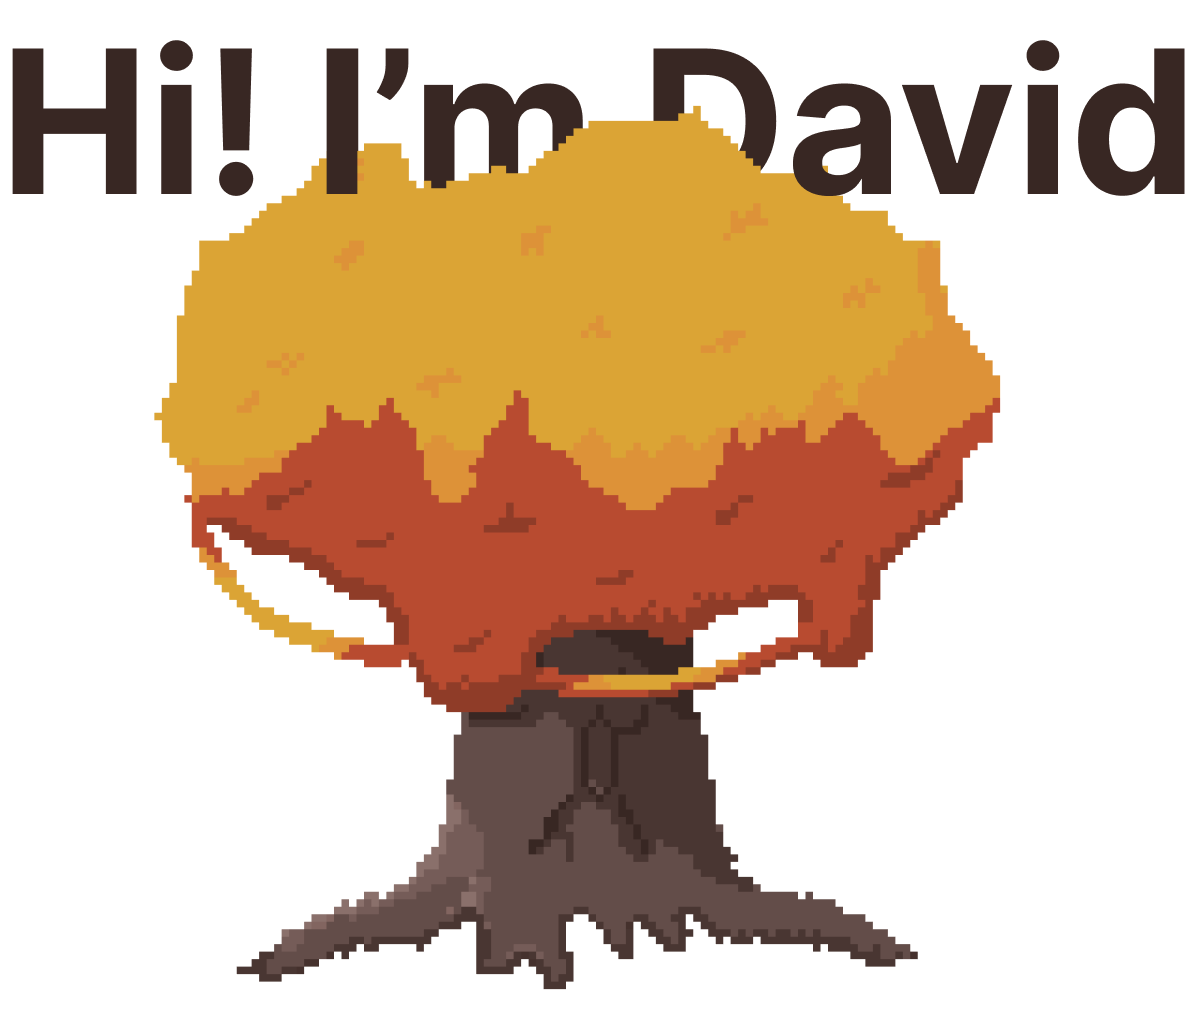
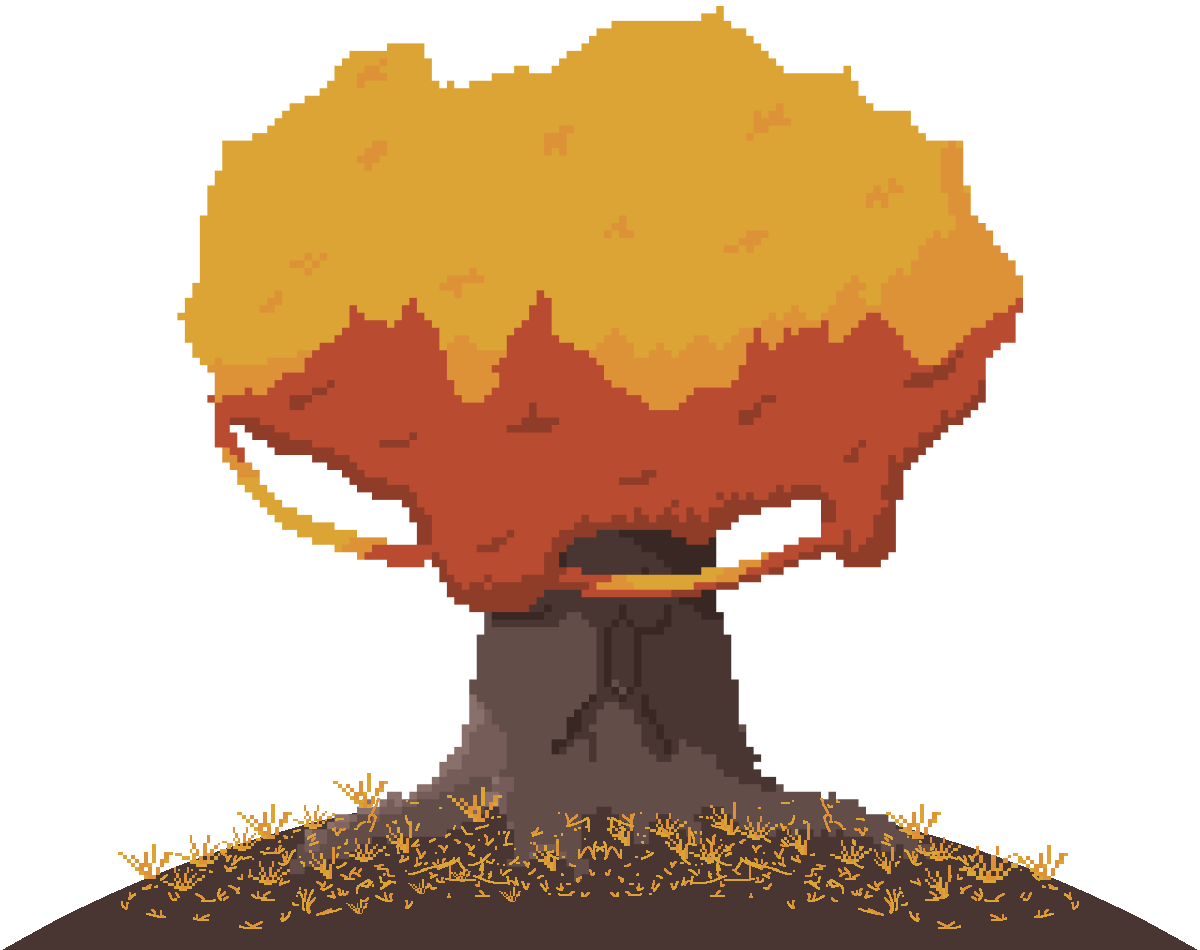
add leave effect and user edit css

diff --git a/index.html b/index.html
@@ -12,6 +12,8 @@
     <link rel="preconnect" href="https://fonts.googleapis.com">
     <link rel="preconnect" href="https://fonts.gstatic.com" crossorigin>
     <link href="https://fonts.googleapis.com/css2?family=Inter:wght@500;700&display=swap" rel="stylesheet">
+    <link href="https://fonts.googleapis.com/css2?family=Press+Start+2P&display=swap" rel="stylesheet">
+    <script defer src="hero.js"></script>
 </head>
 
 <body>
@@ -30,13 +32,63 @@
         <svg viewBox="0 0 1440 35" fill="none" xmlns="http://www.w3.org/2000/svg">
             <path d="M0 35L720 0L1440 35H0Z" fill="#493632" />
         </svg>
-
     </div>
     <main>
+        <section id="projects">
+            <div class="content">
+                <h2>&lt;last-projects /&gt;</h2>
+                <div class="projects-list">
+                    <div class="project">
+                        <img src="./assets/playingcard_back.png" alt="Game Engine Playing Card Back" />
+                        <div class="project-content">
+                            <img src="./assets/gameengine_card_front.png" alt="Game Engine Playing Card Front" />
+                            <a href="https://github.com/matouschdavid/GameEngine"><img src="./assets/GitHub-Mark.png"
+                                    alt="Link to the Repo"></a>
+                        </div>
+                        <p class="details">After years of using Unity as my gameengine of choice, I
+                            wanted
+                            to try
+                            develop my own engine.</p>
+                    </div>
+                    <div class="project">
+                        <img src="./assets/playingcard_back_special.png" alt="Writr Playing Card Back" />
+                        <div class="project-content">
+                            <img src="./assets/writr_card_front.png" alt="Writr Playing Card Front" />
+                            <a href="https://writr.space" class="smaller"><img src="./assets/writr_mark.png"
+                                    alt="Link to the writr landing page"></a>
+                        </div>
+                        <p class="details">Writr is an app for authors to write stories together. We will
+                            launch
+                            in the
+                            coming months so stay tuned.</p>
+                    </div>
+                    <div class="project">
+                        <img src="./assets/playingcard_back.png" alt="Web Framework Playing Card Back" />
+                        <div class="project-content">
+                            <img src="./assets/framework_card_front.png" alt="Web Framework Playing Card Front" />
+                            <a href="https://github.com/matouschdavid/SpideySenseJs"><img src="./assets/GitHub-Mark.png"
+                                    alt="Link to the Repo"></a>
+                        </div>
+                        <p class="details">My latest project was creating a js framework. It's based on
+                            express and has
+                            a primary focus on being easy to learn. Have a look at the repo and judge for yourself.</p>
+                    </div>
+                </div>
+            </div>
+        </section>
         <section id="aboutme"></section>
-        <section id="projects"></section>
     </main>
+
+    <style type="text/css" contenteditable="" style="display: block; white-space: pre; transition: 0.2s;">
+        h6 {
+            color: red;
+            font-size: 20px;
+            background-color: yellow;
+        }
+    </style>
+    <h6>You can edit me</h6>
 </body>
-<script src="index.js"></script>
+<script src="leave_animation.js"></script>
+<script src="cards.js"></script>
 
 </html>

diff --git a/style.css b/style.css
@@ -1,9 +1,11 @@
 :root {
     --brown: #493632;
     --dark-brown: #382723;
+    --light-brown: #dba435;
     font-family: 'Inter', sans-serif;
     font-weight: 500;
     color: var(--brown);
+    scroll-behavior: smooth;
 }
 
 html,
@@ -84,8 +86,10 @@ section {
     width: 100%;
 }
 
-#aboutme {
+#projects {
     background-color: var(--brown);
+    display: flex;
+    justify-content: center;
 }
 
 ul {
@@ -104,6 +108,186 @@ li {
 }
 
 li>a {
+    
     color: var(--brown);
     text-decoration: none;
+}
+
+li>a::after{
+    content: "";
+    display: block;
+    width: 0;
+    height: 2px;
+    background: var(--light-brown);
+    transition: 0.3s;
+    transform: translateX(50%);
+}
+
+li>a:hover::after{
+    width: 100%;
+    transition: 0.3s;
+    transform: translateX(0);
+}
+
+li>a:hover {
+    color: var(--light-brown);
+}
+
+.content{
+    width: 100%;
+    max-width: 1600px;
+    height: 100%;
+    display: flex;
+    justify-content: center;
+    align-items: center;
+    flex-direction: column;
+    position: relative;
+}
+
+.projects-list{
+    width: 100%;
+    height: 100%;
+    display: flex;
+    justify-content: space-around;
+    align-items: center;
+    z-index: 10;
+    position: relative;
+    pointer-events: none;
+}
+
+.project{
+    position: relative;
+    width: 20%;
+    max-width: 250px;
+    flex-shrink: 0;
+    display: flex;
+    justify-content: center;
+    align-items: center;
+    pointer-events: all;
+}
+
+.details{
+    position: absolute;
+    left: 120%;
+    width: 80%;
+    z-index: 50;
+    opacity: 0;
+    color: white;
+    font-size: large;
+    transform: translateX(-120%);
+}
+
+.project img{
+    position: absolute;
+    width: 100%;
+    -webkit-backface-visibility: hidden;
+    backface-visibility: hidden;
+    transition: 0.3s;
+}
+
+#projects h2{
+    color: rgba(255, 255, 255, 0.2);
+    font-family: 'Press Start 2P';
+    font-style: normal;
+    font-weight: 400;
+    font-size: 75px;
+    line-height: 75px;
+    position: absolute;
+    top: 23vh;
+    transition: 1s;
+}
+
+#projects h2:hover{
+    color: var(--light-brown);
+    transition: 0.3s;
+}
+
+.project-content{
+    position: absolute;
+    width: 100%;
+    flex-basis: auto;
+    display: flex;
+    justify-content: center;
+    align-items: center;
+    flex-direction: column;
+    color: black;
+    transform: rotateY(180deg);
+    -webkit-backface-visibility: hidden;
+    backface-visibility: hidden;
+    transition: 0.3s;
+    box-sizing: border-box;
+}
+
+.project a{
+    position: absolute;
+    bottom: 8px;
+    left: 8px;
+    width: 64px;
+    height: 64px;
+}
+
+.project .smaller{
+    bottom: 16px;
+    left: 16px;
+    width: 40px;
+    height: 40px;
+}
+
+#hero > h1{
+    animation: move-up 1.5s ease-in-out 0s forwards;
+}
+
+.disappear{
+    opacity: 0;
+    transition: 1s;
+}
+
+@keyframes move-up {
+    from{
+        transform: translateY(100%);
+    }
+    to {
+        transform: translateY(0);
+    }
+}
+
+.project-content>h3, .project-content>p{
+    z-index: 20;
+}
+
+/* rotate project on hover */
+.project:hover >img{
+    transition: 0.5s;
+    transform: rotateY(180deg) translateY(-10%);
+}
+
+.project:hover .project-content{
+    transition: 0.5s;
+    transform: rotateY(0deg) translateY(-10%);
+}
+
+.project:hover .details{
+    opacity: 1;
+    transition: 0.3s;
+    transform: translateX(0);
+}
+
+.gras-frame{
+    width: 80%;
+    display: flex;
+    justify-content: space-around;
+    align-items: center;
+    z-index: 30;
+}
+
+.gras{
+    height: 50px;
+    width: 50px;
+}
+
+img{
+    image-rendering: pixelated;
+  image-rendering: -moz-crisp-edges;
+  image-rendering: -webkit-optimize-contrast;
+  image-rendering: crisp-edges;
 }

diff --git a/hero.js b/hero.js
@@ -1,0 +1,15 @@
+heroT = document.querySelector("#hero>h1");
+windowHeight = window.innerHeight;
+upperSection = windowHeight * 0.5;
+lowerSection = windowHeight * 1.2;
+onscroll = () => {
+  if (window.scrollY < upperSection) {
+    heroT.style.opacity = 1 - window.scrollY / upperSection;
+    heroT.innerHTML = "Hi! I'm David";
+  }
+
+  if (window.scrollY > lowerSection) {
+    heroT.style.opacity = 0 + (window.scrollY - lowerSection) / upperSection;
+    heroT.innerHTML = "Contact me";
+  }
+};

diff --git a/cards.js b/cards.js
@@ -1,0 +1,2 @@
+$(".project-content").height($(".project-content>img").outerHeight());
+$(".project").height($(".project>img").outerHeight());
